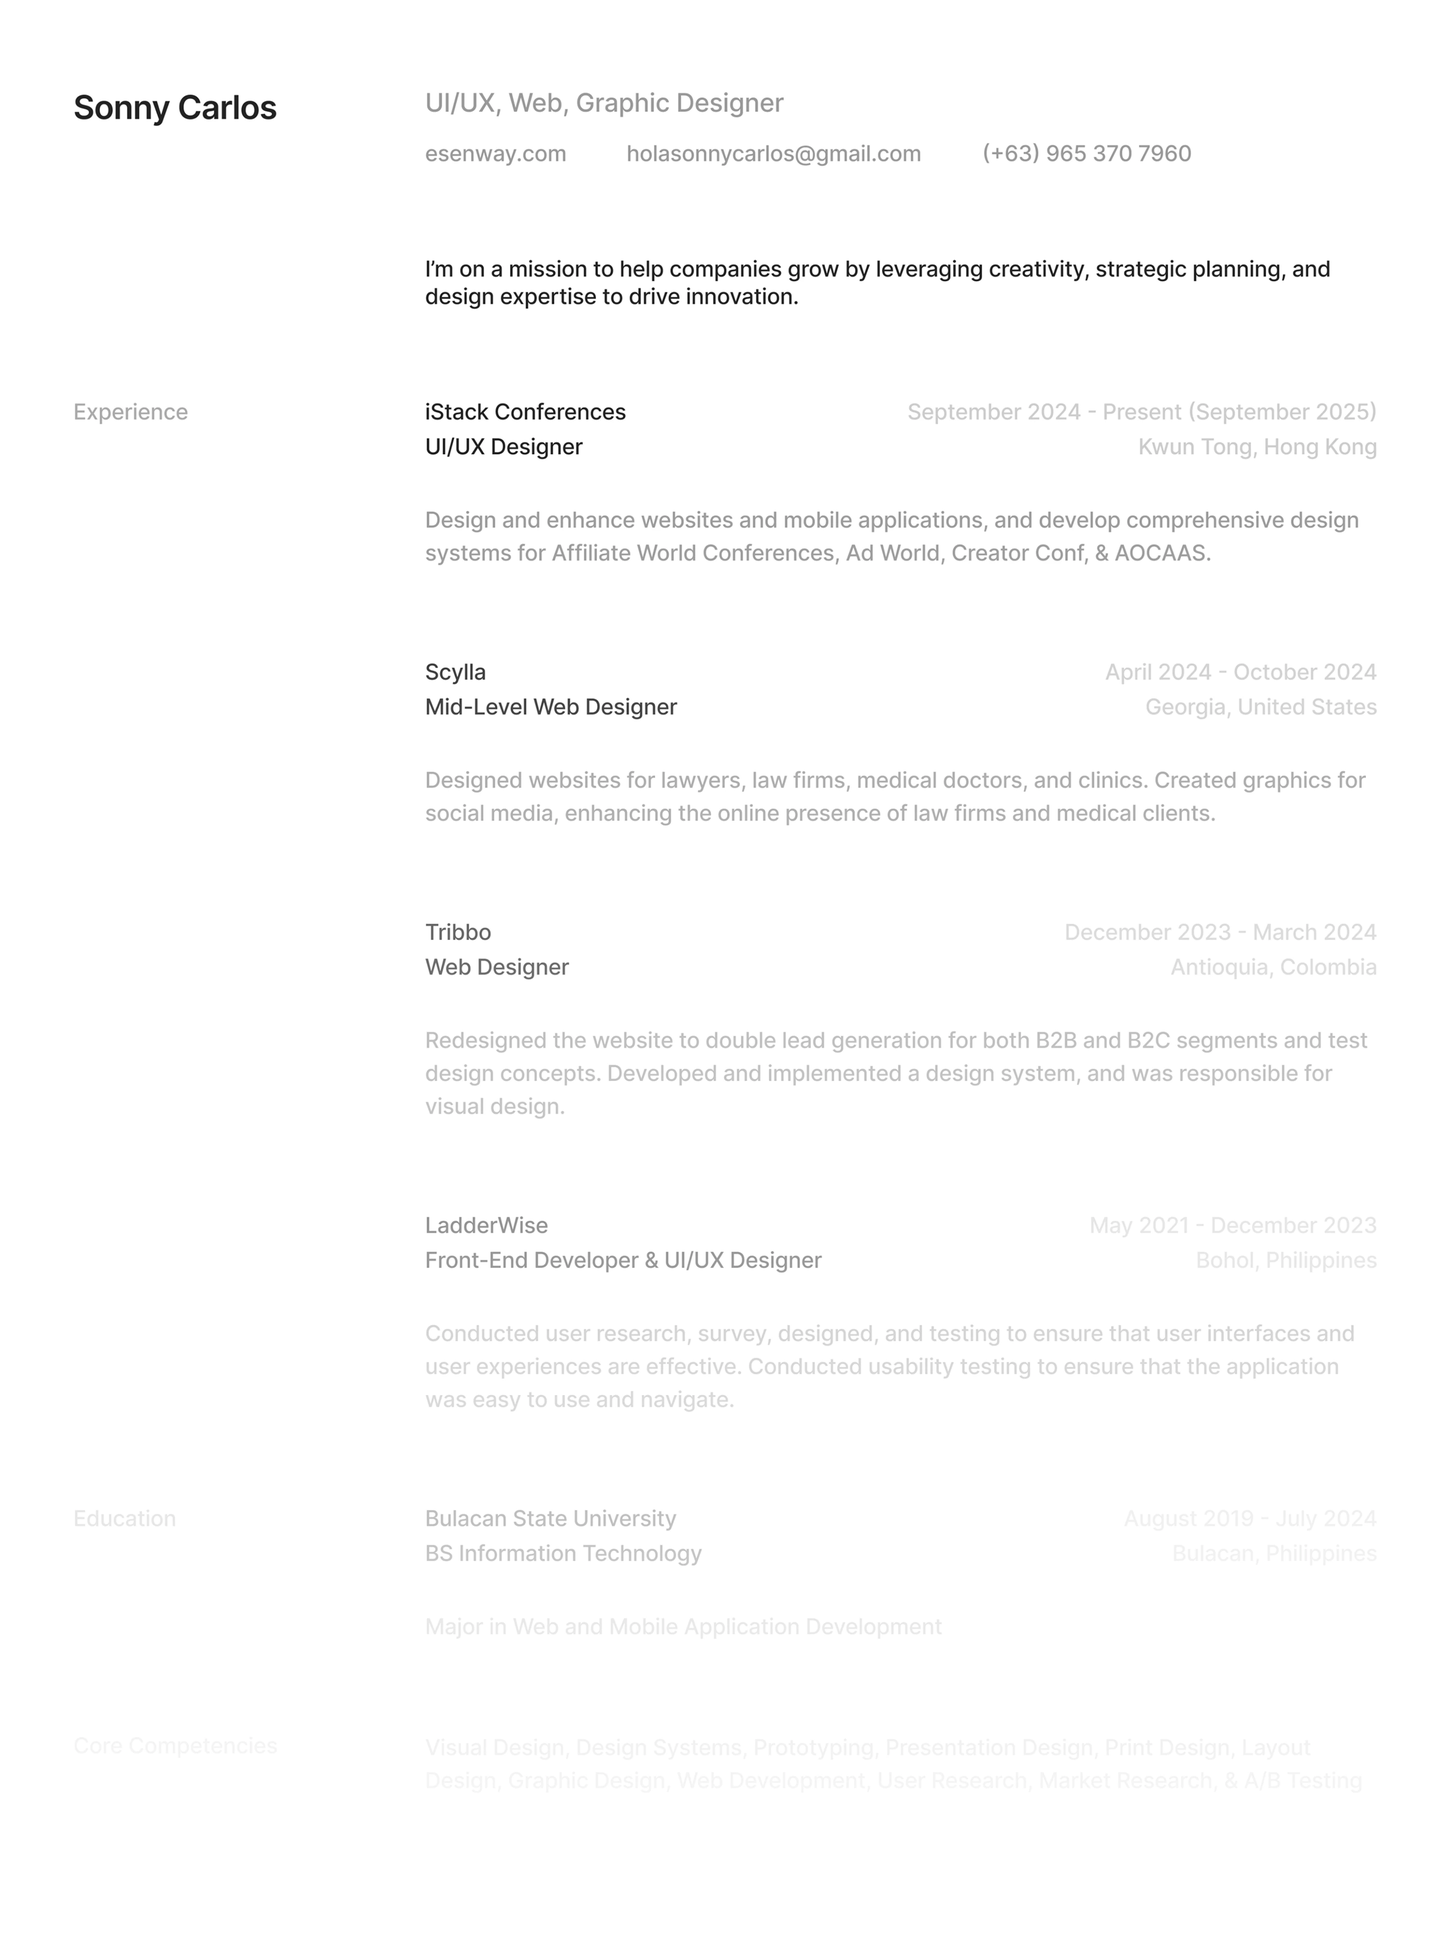
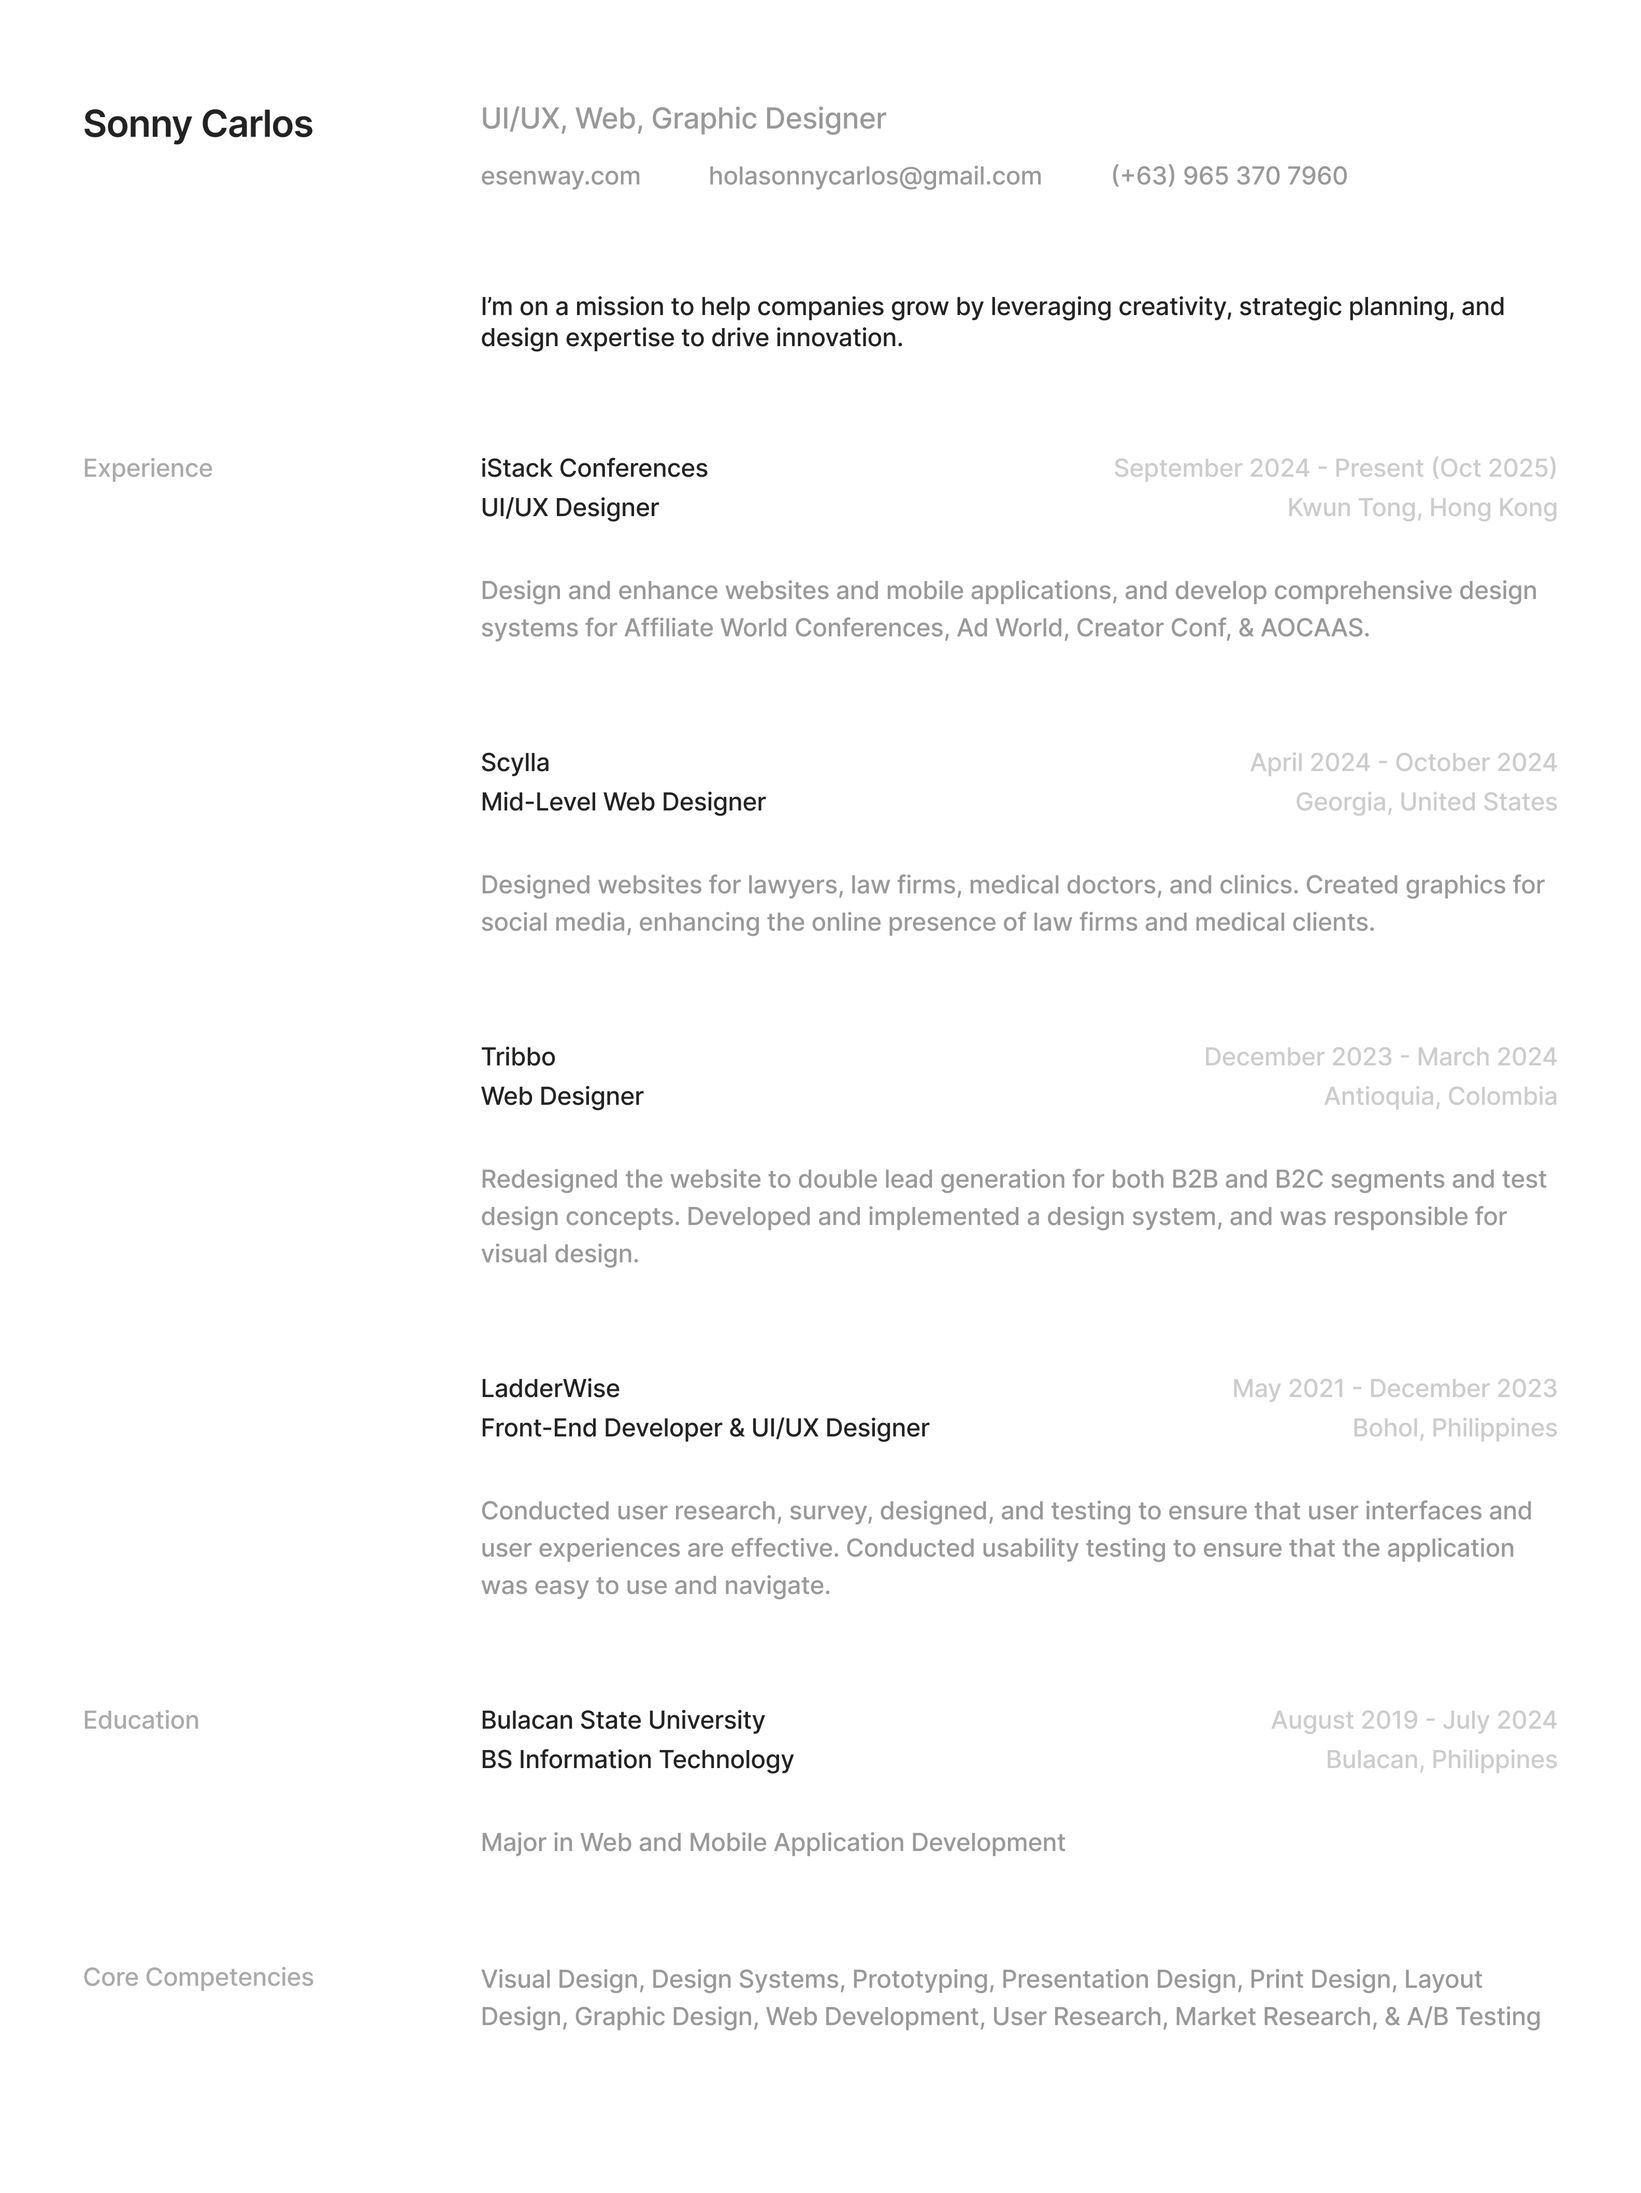
update experience

diff --git a/pages/about.html b/pages/about.html
@@ -113,7 +113,7 @@
                 </div>
                 
                 <div>
-                  <p>Sept. 2024 - Present (Sept. 2025)</p>
+                  <p>Sept. 2024 - Present (Oct. 2025)</p>
                   <p>Metro Manila, Philippines</p>
                 </div>
               </div>
@@ -121,7 +121,7 @@
               <div class='desktop header'>
                 <div>
                   <p>iStack Conferences</p>
-                  <p>Sept. 2024 - Present (Sept. 2025)</p>
+                  <p>Sept. 2024 - Present (Oct. 2025)</p>
                 </div>
                 
                 <div>
@@ -144,7 +144,7 @@
                     </div>
                     
                     <div>
-                      <p>Mar. 2025 - Present (Sept. 2025)</p>
+                      <p>Mar. 2025 - Present (Oct. 2025)</p>
                       <p>Kwun Tong, Hong Kong</p>
                     </div>
                   </div>
@@ -152,7 +152,7 @@
                   <div class='desktop header'>
                     <div>
                       <p>Ad World</p>
-                      <p>Mar. 2025 - Present (Sept. 2025)</p>
+                      <p>Mar. 2025 - Present (Oct. 2025)</p>
                     </div>
                     
                     <div>
@@ -183,7 +183,7 @@
                     </div>
                     
                     <div>
-                      <p>Sept. 2024 - Present (Sept. 2025)</p>
+                      <p>Sept. 2024 - Present (Oct. 2025)</p>
                       <p>Kwun Tong, Hong Kong</p>
                     </div>
                   </div>
@@ -191,7 +191,7 @@
                   <div class='desktop header'>
                     <div>
                       <p>Affiliate World Conferences</p>
-                      <p>Sept. 2024 - Present (Sept. 2025)</p>
+                      <p>Sept. 2024 - Present (Oct. 2025)</p>
                     </div>
                     
                     <div>
